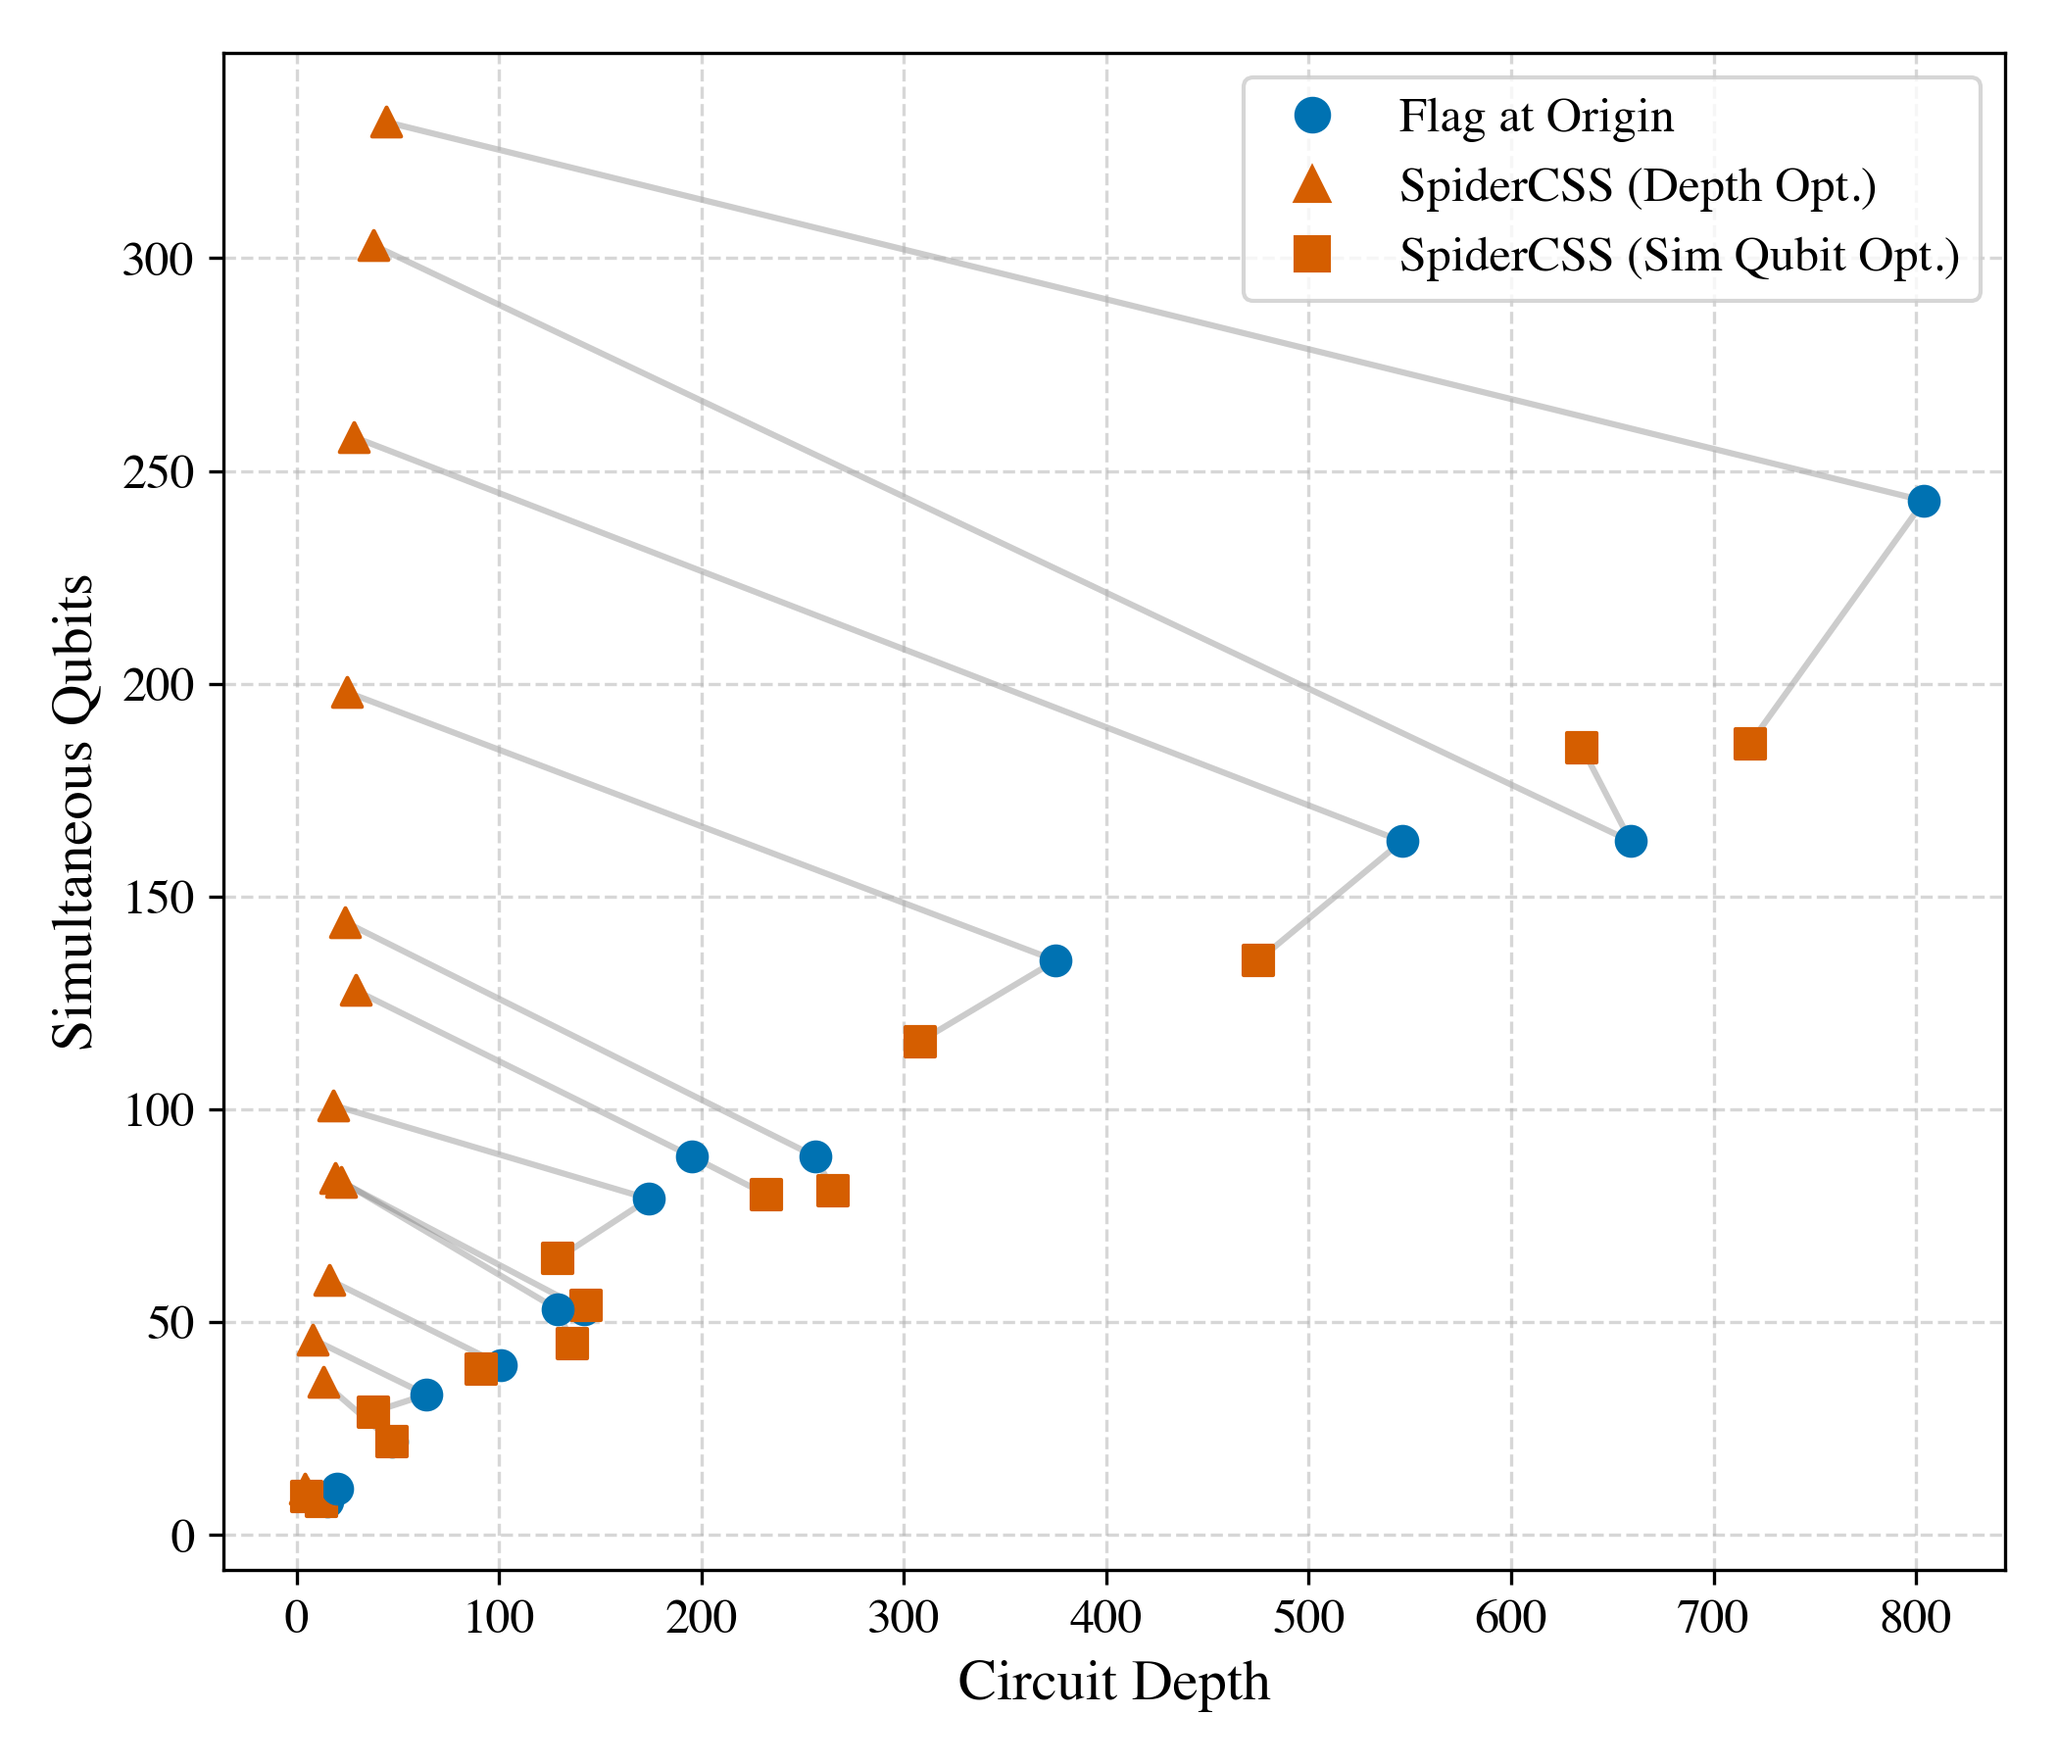
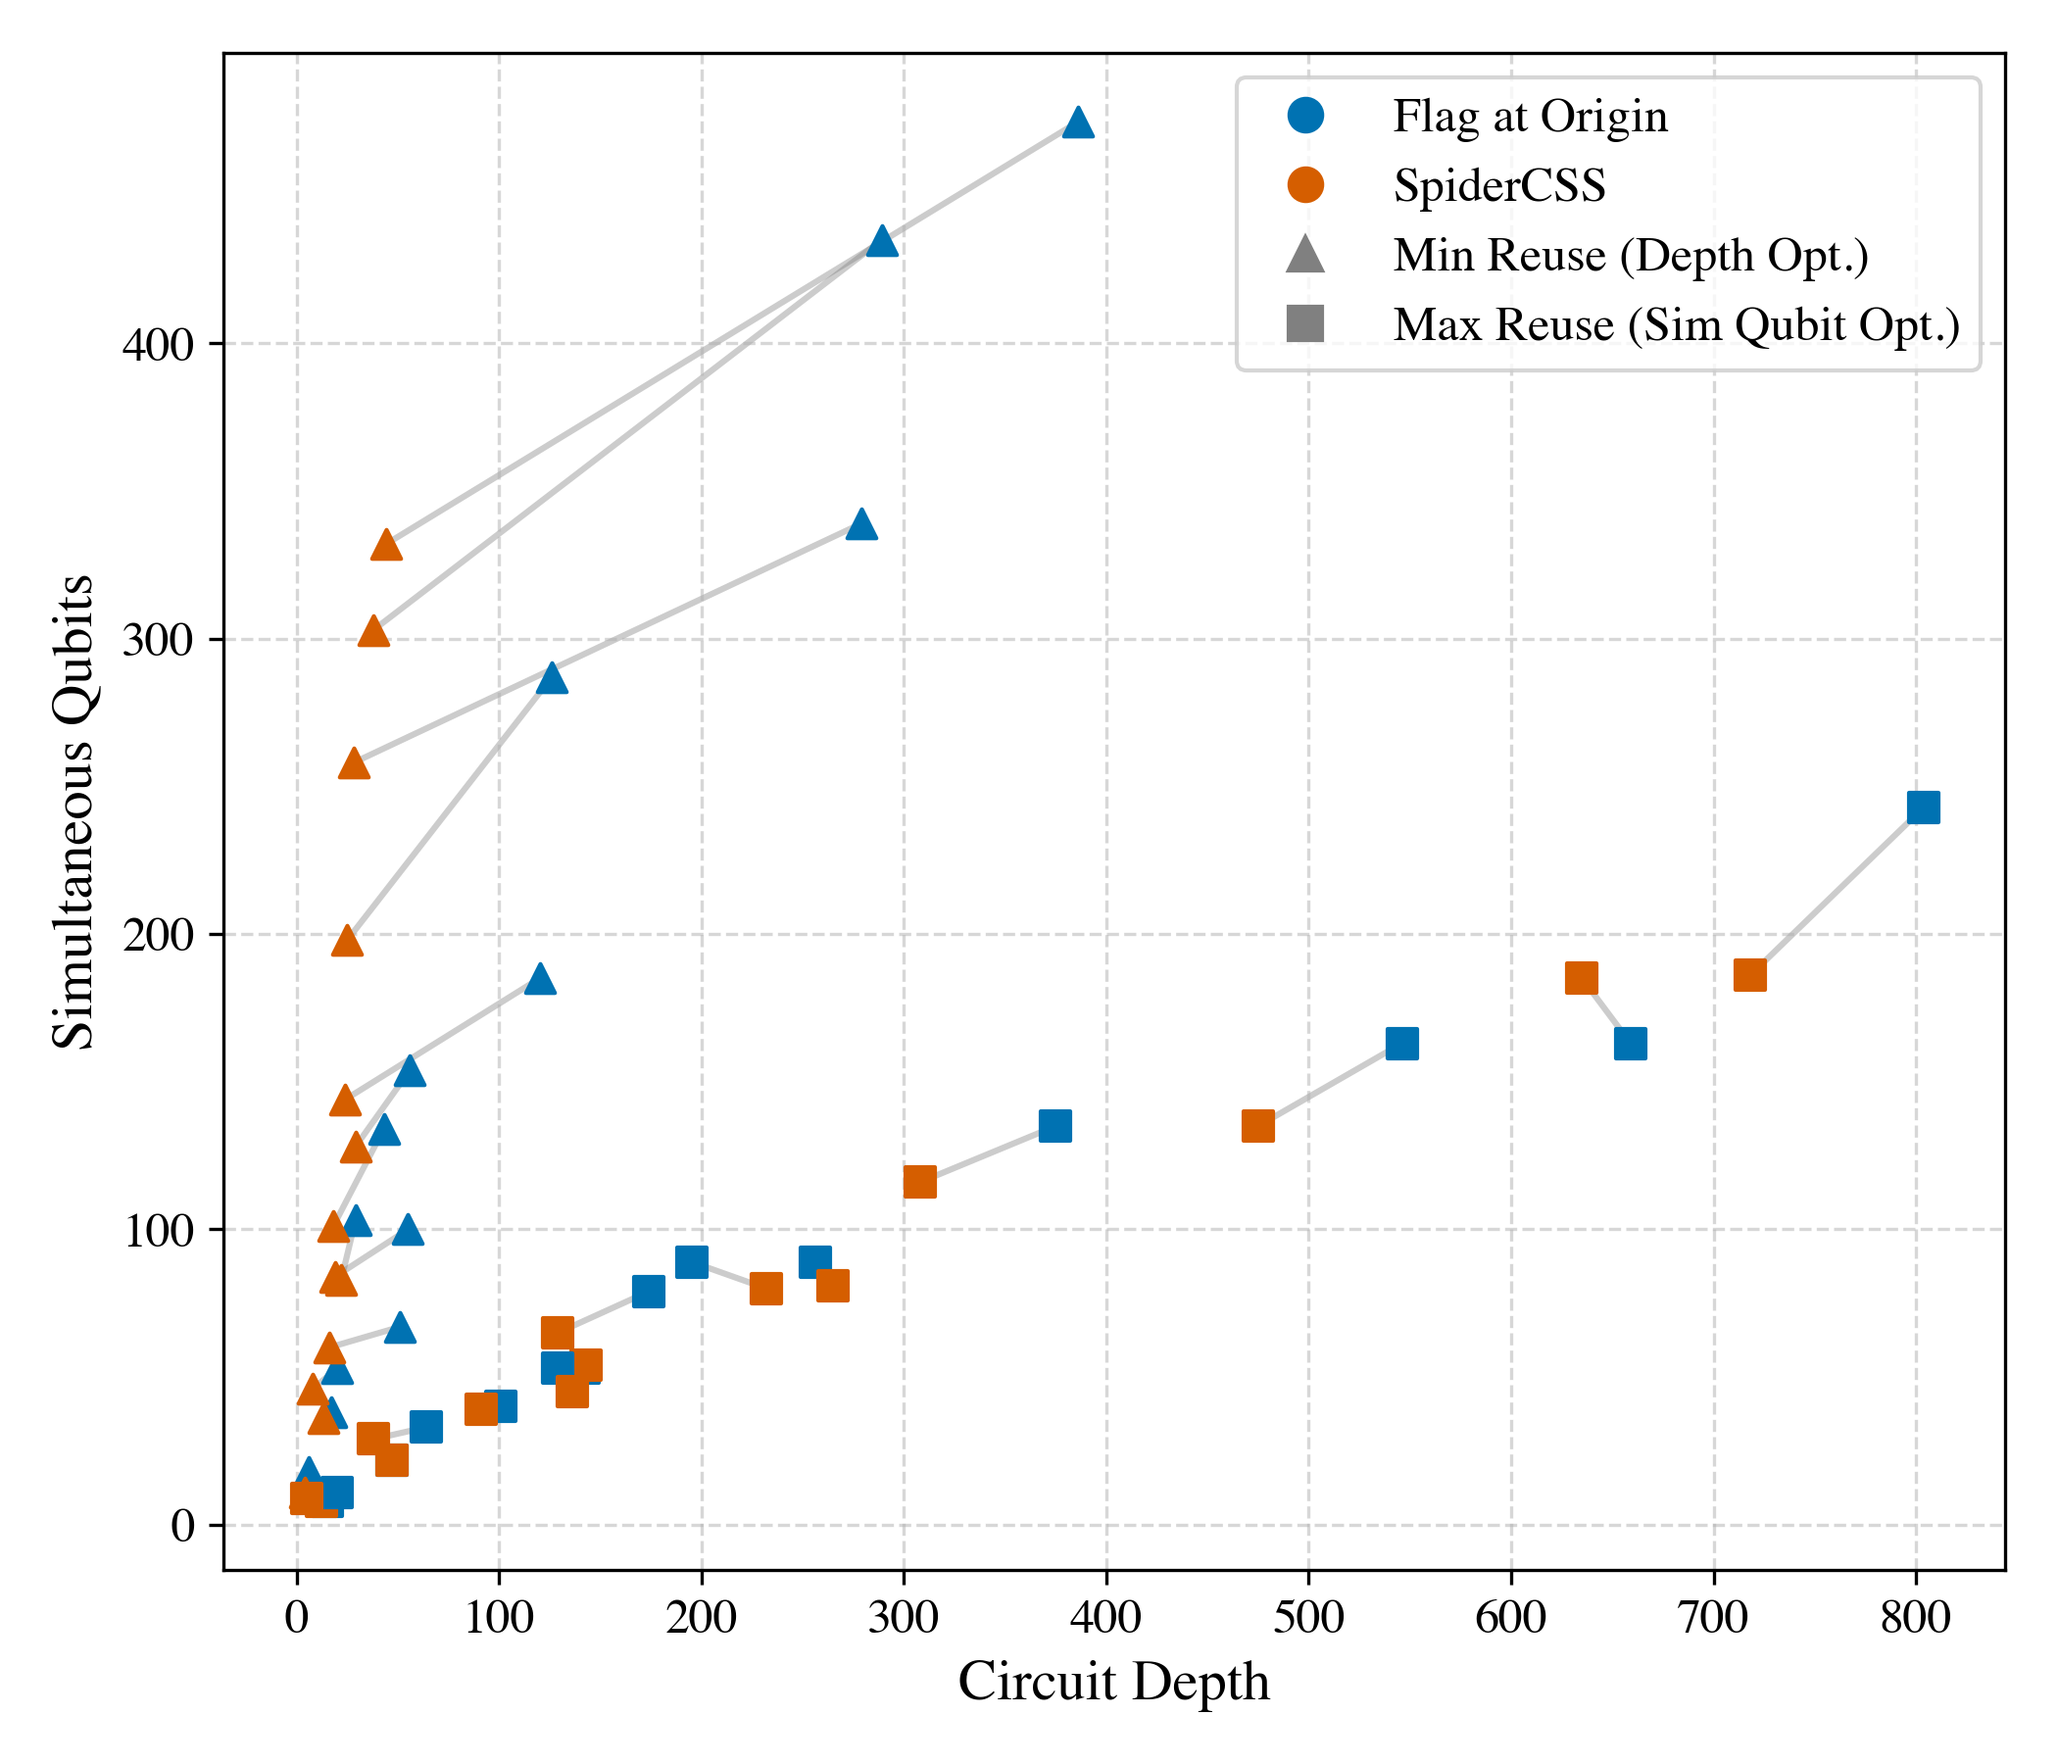
Update depth vs qubits scatter to show min/max reuse pairs

diff --git a/spidercss/visualize.py b/spidercss/visualize.py
@@ -208,8 +208,11 @@ def plot_depth_sim_qubits_scatter(codes, grouped_stats, fao_stats, colors, plots
     import matplotlib.lines as mlines
     
     for code in codes:
-        fao_depth = fao_stats[code].get("depth_max", 0)
-        fao_sim = fao_stats[code].get("num_qubits_max", 0)
+        fao_depth_max = fao_stats[code].get("depth_max", 0)
+        fao_sim_max = fao_stats[code].get("num_qubits_max", 0)
+        
+        fao_depth_min = fao_stats[code].get("depth_min", 0)
+        fao_sim_min = fao_stats[code].get("num_qubits_min", 0)
         
         # In new benchmark format, we can find the best CSSCat for this code
         # and it has both max and min reuse inside the json
@@ -217,32 +220,40 @@ def plot_depth_sim_qubits_scatter(codes, grouped_stats, fao_stats, colors, plots
         if not css_rs:
             continue
         
-        # Just use the best one (or any, since max/min reuse properties might be the same globally)
         valid_css = [r for r in css_rs if r.get("logical_error_rate") is not None]
         best_css = min(valid_css, key=lambda x: x["logical_error_rate"]) if valid_css else css_rs[0]
         
-        d_opt_depth = best_css.get("depth_min", -2)
-        d_opt_sim = best_css.get("num_qubits_min", 0)
+        spider_depth_min = best_css.get("depth_min", -2)
+        spider_sim_min = best_css.get("num_qubits_min", 0)
         
-        s_opt_depth = best_css.get("depth_max", -2)
-        s_opt_sim = best_css.get("num_qubits_max", 0)
+        spider_depth_max = best_css.get("depth_max", -2)
+        spider_sim_max = best_css.get("num_qubits_max", 0)
         
-        plt.plot([fao_depth, d_opt_depth], [fao_sim, d_opt_sim], color='gray', alpha=0.4, zorder=1)
-        plt.plot([fao_depth, s_opt_depth], [fao_sim, s_opt_sim], color='gray', alpha=0.4, zorder=1)
+        # Connect min_reuse pair
+        plt.plot([fao_depth_min, spider_depth_min], [fao_sim_min, spider_sim_min], color='gray', alpha=0.4, zorder=1)
+        # Connect max_reuse pair
+        plt.plot([fao_depth_max, spider_depth_max], [fao_sim_max, spider_sim_max], color='gray', alpha=0.4, zorder=1)
         
-        plt.scatter(fao_depth, fao_sim, color=colors["Flag at Origin"], zorder=2, s=50)
-        plt.scatter(d_opt_depth, d_opt_sim, color=colors["SpiderCSS"], zorder=2, s=50, marker='^')
-        plt.scatter(s_opt_depth, s_opt_sim, color=colors["SpiderCSS"], zorder=2, s=50, marker='s')
+        # Scatter min_reuse (triangles)
+        plt.scatter(fao_depth_min, fao_sim_min, color=colors["Flag at Origin"], zorder=2, s=50, marker='^')
+        plt.scatter(spider_depth_min, spider_sim_min, color=colors["SpiderCSS"], zorder=2, s=50, marker='^')
+        
+        # Scatter max_reuse (squares)
+        plt.scatter(fao_depth_max, fao_sim_max, color=colors["Flag at Origin"], zorder=2, s=50, marker='s')
+        plt.scatter(spider_depth_max, spider_sim_max, color=colors["SpiderCSS"], zorder=2, s=50, marker='s')
 
     plt.xlabel("Circuit Depth")
     plt.ylabel("Simultaneous Qubits")
     plt.grid(True, ls="--", alpha=0.5)
     
+    # Legend setup
     fao_marker = mlines.Line2D([], [], color=colors["Flag at Origin"], marker='o', linestyle='None', markersize=8, label='Flag at Origin')
-    spider_depth_marker = mlines.Line2D([], [], color=colors["SpiderCSS"], marker='^', linestyle='None', markersize=8, label='SpiderCSS (Depth Opt.)')
-    spider_sim_marker = mlines.Line2D([], [], color=colors["SpiderCSS"], marker='s', linestyle='None', markersize=8, label='SpiderCSS (Sim Qubit Opt.)')
+    spider_marker = mlines.Line2D([], [], color=colors["SpiderCSS"], marker='o', linestyle='None', markersize=8, label='SpiderCSS')
     
-    plt.legend(handles=[fao_marker, spider_depth_marker, spider_sim_marker])
+    min_reuse_marker = mlines.Line2D([], [], color='gray', marker='^', linestyle='None', markersize=8, label='Min Reuse (Depth Opt.)')
+    max_reuse_marker = mlines.Line2D([], [], color='gray', marker='s', linestyle='None', markersize=8, label='Max Reuse (Sim Qubit Opt.)')
+    
+    plt.legend(handles=[fao_marker, spider_marker, min_reuse_marker, max_reuse_marker])
     plt.tight_layout()
     plt.savefig(os.path.join(plots_dir, "depth_sim_qubits_scatter.png"), dpi=300)
     plt.savefig(os.path.join(plots_dir, "depth_sim_qubits_scatter.pdf"))
